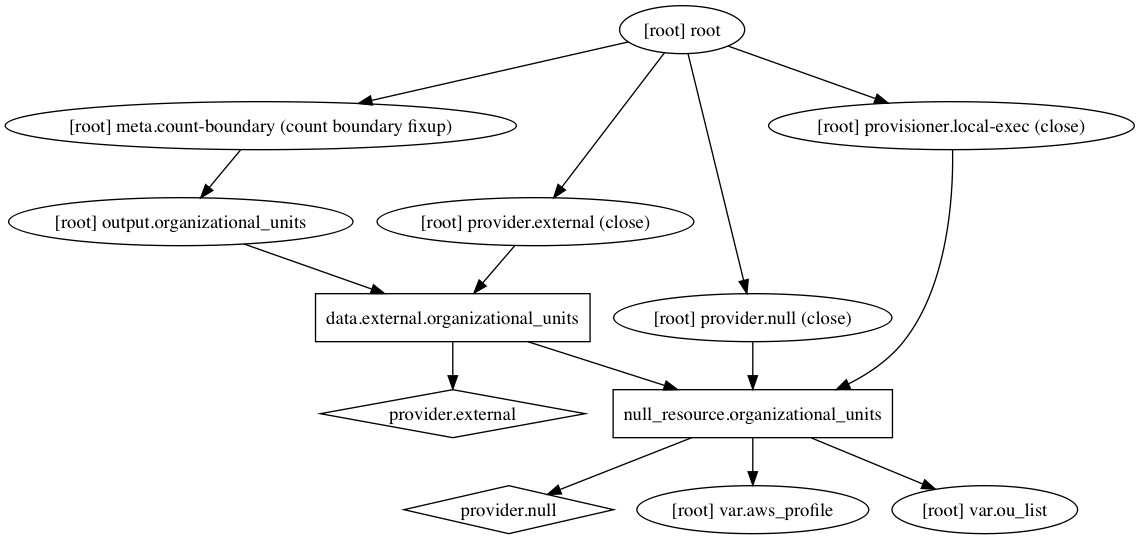
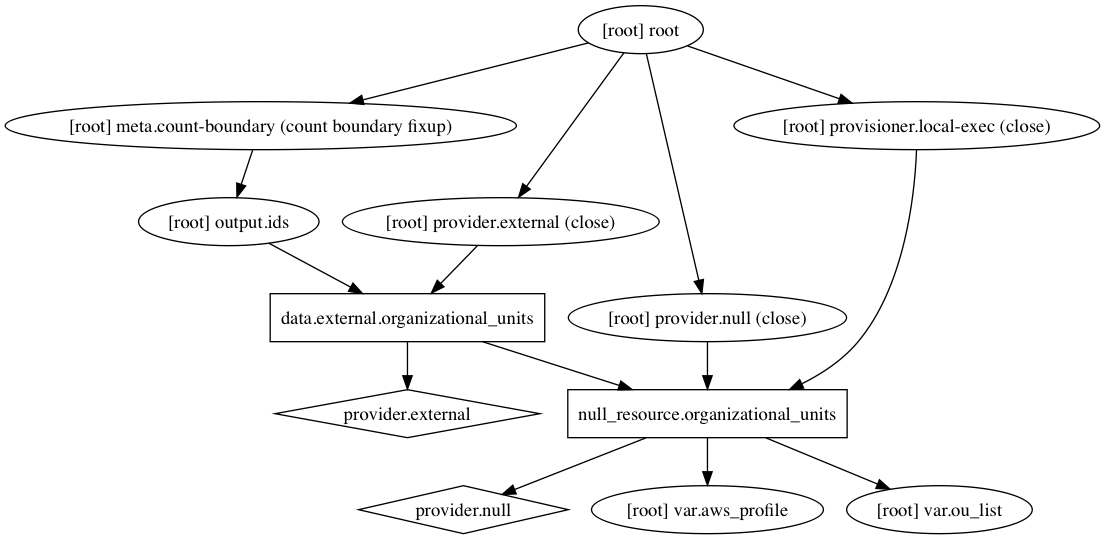
Output root id. Changed name of output

diff --git a/README.md b/README.md
@@ -34,7 +34,7 @@ module "organizational-units" {
 
 | Name | Description |
 |------|-------------|
-| organizational\_units | Organizational units |
+| ids | Root and Organizational units IDs |
 
 <!-- END OF PRE-COMMIT-TERRAFORM DOCS HOOK -->
 <!-- BEGINNING OF PRE-COMMIT-TERRAFORM GRAPH HOOK -->

diff --git a/examples/basic/README.md b/examples/basic/README.md
@@ -27,6 +27,6 @@ terraform apply
 
 | Name | Description |
 |------|-------------|
-| organizational\_units | Organizational units |
+| ids | Root and Organizational units IDs |
 
 <!-- END OF PRE-COMMIT-TERRAFORM DOCS HOOK -->
